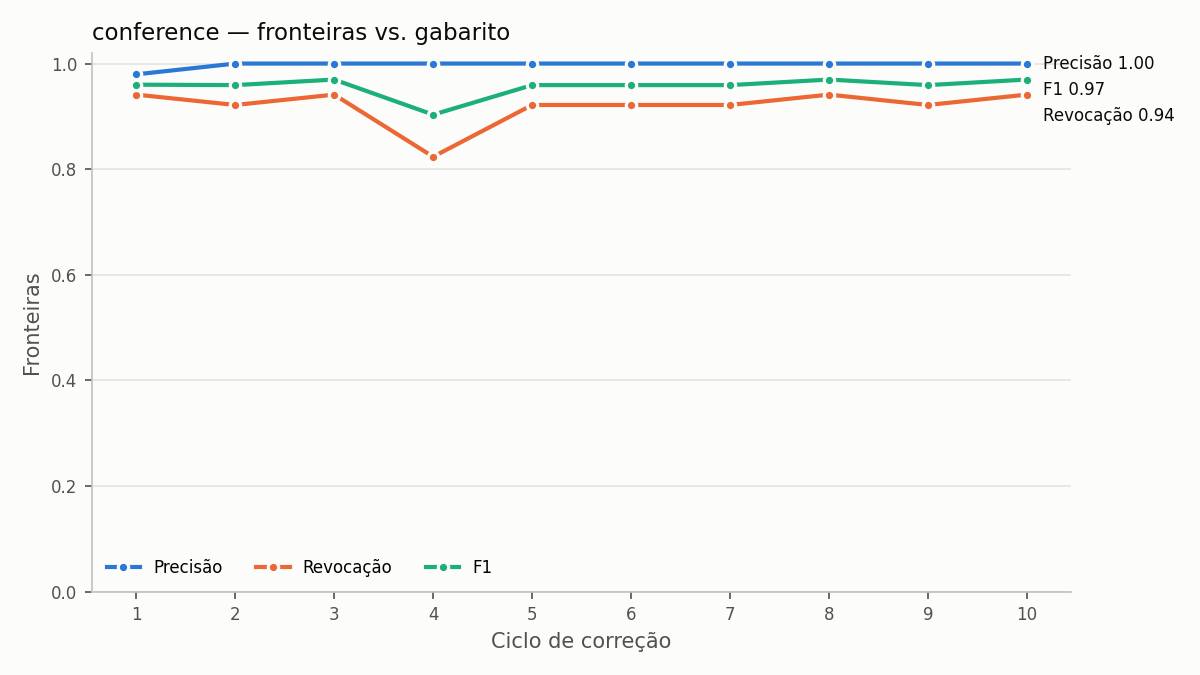
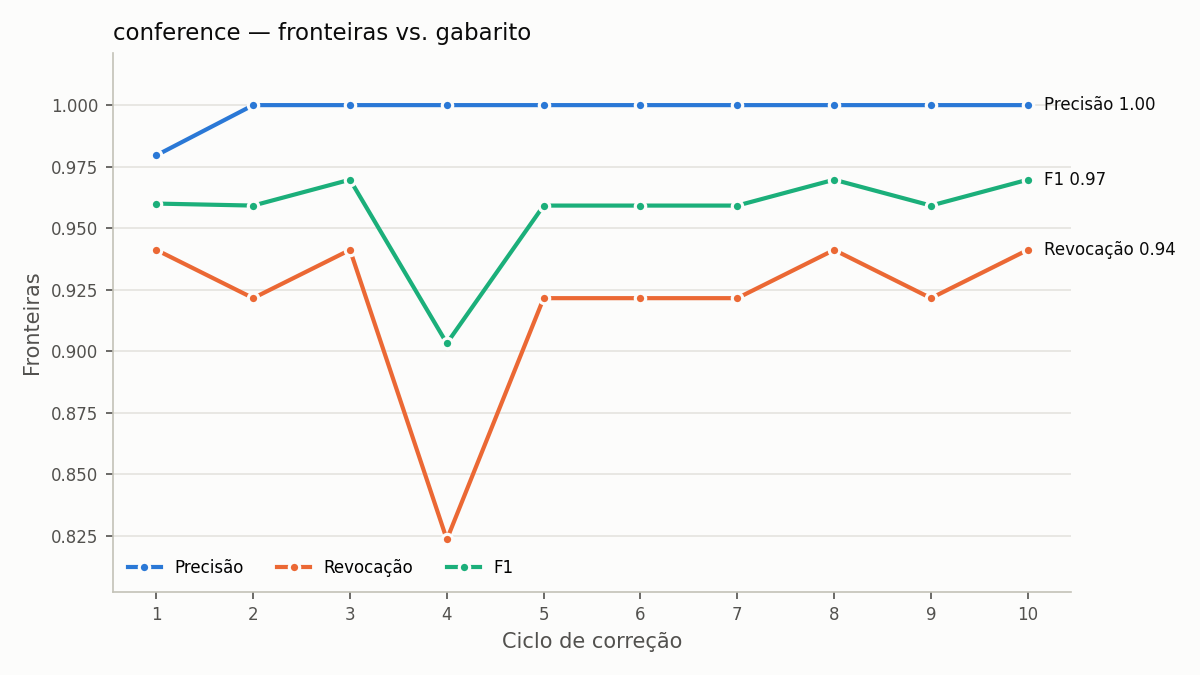
Scale the evaluation plot's y-axis to the data range, not a fixed 0-1
Precision/recall/F1 cluster near 1.0 for most runs, so the fixed 0-1
axis flattened real variation into three nearly-straight lines.
Scaling to [min, max] of the plotted values (plus a small margin)
makes cycle-to-cycle oscillation visible, e.g. hrds-D12-1082's dip
and recovery across its 9 correction cycles.

diff --git a/semantic_seg/avaliar.py b/semantic_seg/avaliar.py
@@ -272,17 +272,23 @@ def plotar(resultado: dict, caminho: str) -> None:
         ax.plot(ciclos, ys, color=cor, linewidth=2, marker="o", markersize=5,
                 markeredgecolor="#fcfcfb", markeredgewidth=1.5, label=rotulo)
 
+    valores = [l[chave] for l in resultado["ciclos"] for chave, _, _ in _SERIES]
+    ymin, ymax = min(valores), max(valores)
+    margem = max((ymax - ymin) * 0.12, 0.01)
+    y_lo, y_hi = ymin - margem, ymax + margem
+
     # Rótulo direto só no último ciclo, empurrado para baixo se colidir com o de cima.
     finais = sorted(((resultado["ciclos"][-1][c], r) for c, r, _ in _SERIES), reverse=True)
     y_ant = None
+    offset_min = (y_hi - y_lo) * 0.05
     for y, rotulo in finais:
-        y_txt = y if y_ant is None else min(y, y_ant - 0.05)
+        y_txt = y if y_ant is None else min(y, y_ant - offset_min)
         ax.annotate(f"{rotulo} {y:.2f}", xy=(ciclos[-1], y_txt), xytext=(8, 0),
                     textcoords="offset points", va="center", fontsize=8,
                     color="#0b0b0b", annotation_clip=False)
         y_ant = y_txt
 
-    ax.set_ylim(0, 1.02)
+    ax.set_ylim(y_lo, y_hi)
     ax.set_xticks(ciclos)
     ax.set_xlabel("Ciclo de correção", color="#52514e")
     ax.set_ylabel("Fronteiras", color="#52514e")
